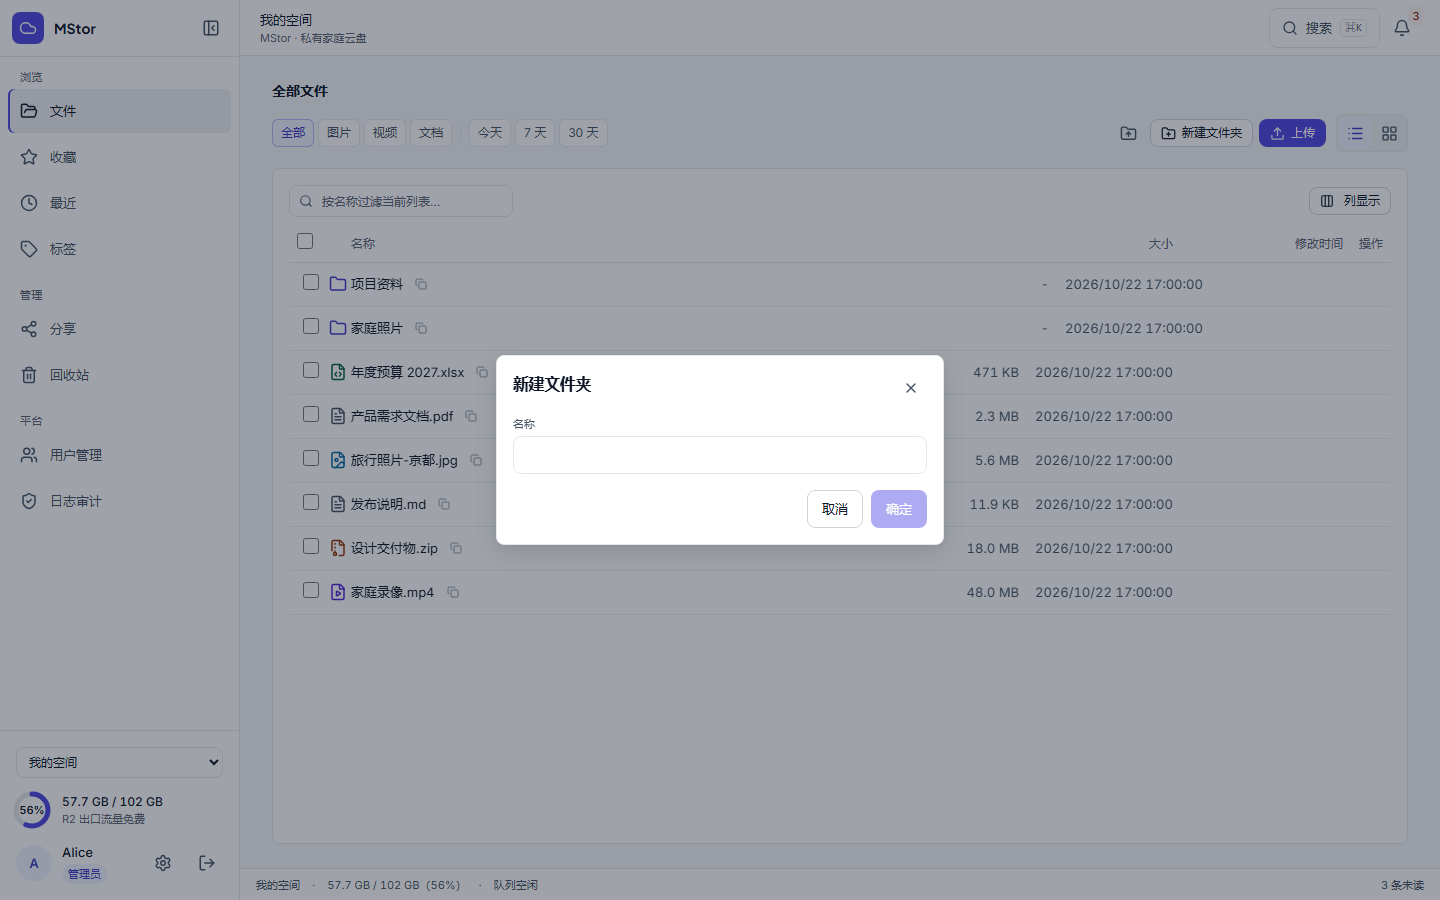
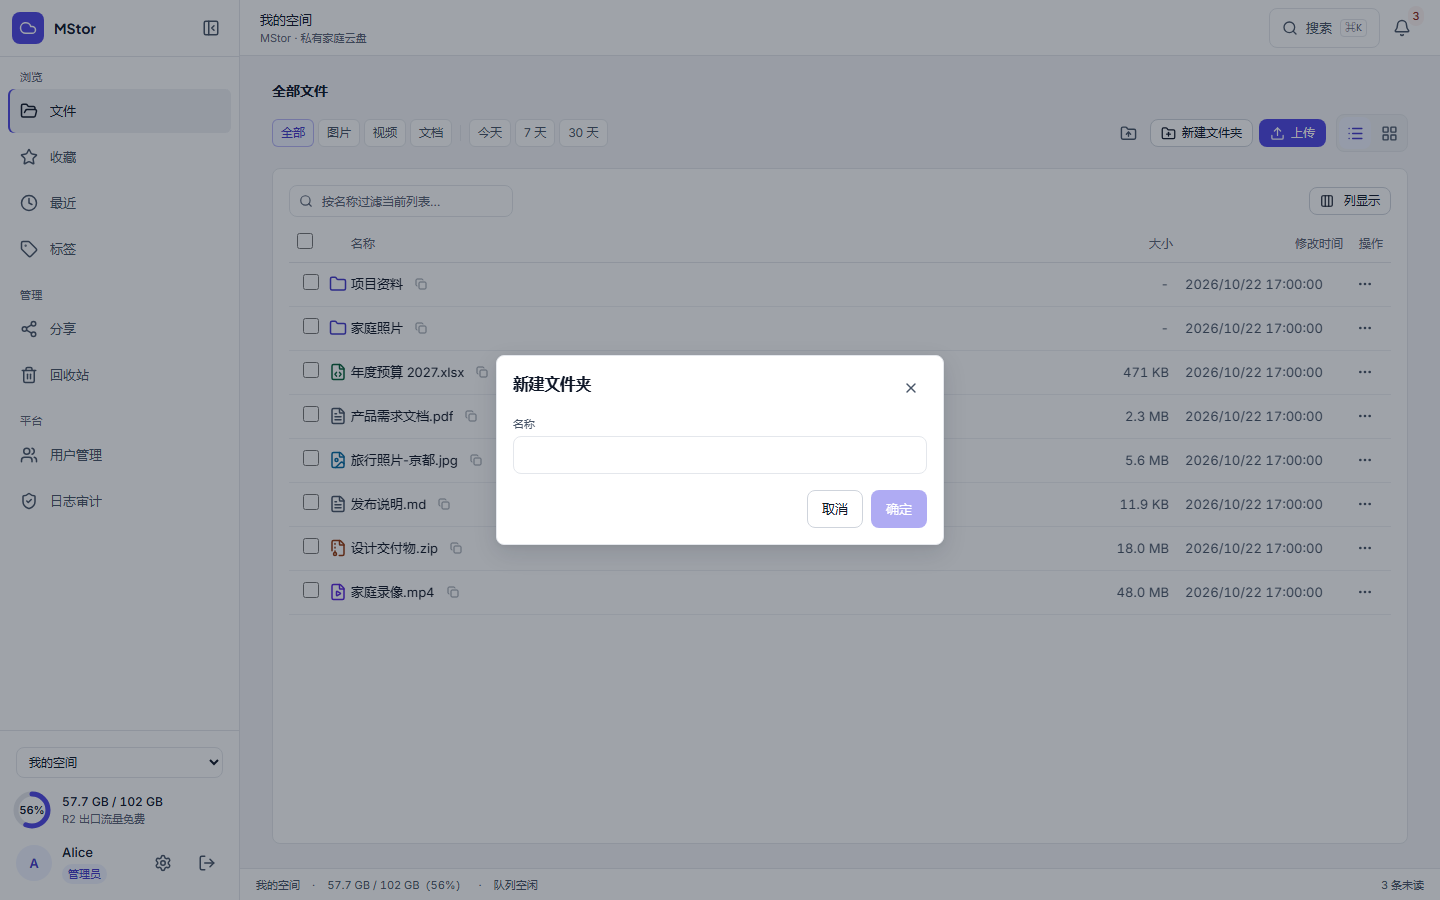
feat(ux): 操作入口常显 + 组件体验评估
- 列表每行常显「更多」菜单，移除 hover-only 6 图标；网格常显「下载+更多」
- 右键/更多菜单补收藏动作，统一 useNodeActions；更多按钮 coarse 44px
- 新增 docs/component-ux-audit.md：选择/列表/操作/工具栏/弹窗评分与优先级
- 明确框选为 P1 缺口；更新 DESIGN.md v8.4、README、UX report
- 客户端 265 例、server 29、visual 22/22；tsc/eslint/build 全绿

diff --git a/client/src/pages/Browser.test.tsx b/client/src/pages/Browser.test.tsx
@@ -144,7 +144,8 @@ test("rename via dialog calls renameNode", async () => {
   vi.mocked(renameNode).mockResolvedValue({ ok: true });
   const { user } = renderWith(<Browser />);
   await screen.findByText("hello.txt");
-  await user.click(screen.getByRole("button", { name: /重命名 hello.txt/ }));
+  await user.click(screen.getByRole("button", { name: /更多操作 hello.txt/ }));
+  await user.click(screen.getByRole("menuitem", { name: "重命名" }));
   const input = screen.getByLabelText("名称");
   await user.clear(input);
   await user.type(input, "world.txt");
@@ -157,7 +158,8 @@ test("delete asks confirm dialog then calls deleteNode", async () => {
   vi.mocked(deleteNode).mockResolvedValue({ ok: true });
   const { user } = renderWith(<Browser />);
   await screen.findByText("hello.txt");
-  await user.click(screen.getByRole("button", { name: /删除 hello.txt/ }));
+  await user.click(screen.getByRole("button", { name: /更多操作 hello.txt/ }));
+  await user.click(screen.getByRole("menuitem", { name: "删除" }));
   // 弹窗出现且未确认前不调用删除
   expect(await screen.findByText("确定删除「hello.txt」？可在回收站恢复。")).toBeInTheDocument();
   expect(deleteNode).not.toHaveBeenCalled();
@@ -166,7 +168,8 @@ test("delete asks confirm dialog then calls deleteNode", async () => {
   expect(screen.queryByText("确定删除「hello.txt」？可在回收站恢复。")).not.toBeInTheDocument();
   expect(deleteNode).not.toHaveBeenCalled();
   // 再次打开并在弹窗内确认
-  await user.click(screen.getByRole("button", { name: /删除 hello.txt/ }));
+  await user.click(screen.getByRole("button", { name: /更多操作 hello.txt/ }));
+  await user.click(screen.getByRole("menuitem", { name: "删除" }));
   await user.click(await screen.findByRole("button", { name: "删除" }));
   await waitFor(() => expect(deleteNode).toHaveBeenCalledWith("f1"));
 });
@@ -325,7 +328,8 @@ test("move via dialog calls moveNode with target dir", async () => {
   vi.mocked(moveNode).mockResolvedValue({ ok: true });
   const { user } = renderWith(<Browser />);
   await screen.findByText("hello.txt");
-  await user.click(screen.getByRole("button", { name: /移动 hello.txt/ }));
+  await user.click(screen.getByRole("button", { name: /更多操作 hello.txt/ }));
+  await user.click(screen.getByRole("menuitem", { name: "移动" }));
   await user.click(screen.getByRole("button", { name: "根目录" }));
   await user.click(screen.getByRole("button", { name: "确定" }));
   await waitFor(() => expect(moveNode).toHaveBeenCalledWith("f1", ""));

diff --git a/client/src/components/FileList.tsx b/client/src/components/FileList.tsx
@@ -296,28 +296,22 @@ export default function FileList({
       );
     return (
       <span
-        className="row-actions flex shrink-0 items-center justify-center gap-0.5 px-1"
+        className="flex shrink-0 items-center justify-end gap-0.5 px-1"
         onClick={(e) => e.stopPropagation()}
         onDoubleClick={(e) => e.stopPropagation()}
       >
         {onMoreMenu ? (
-          <>
-            {/* 桌面：完整操作组；移动：收进「更多」菜单，把宽度让给文件名 */}
-            <span className="hidden items-center gap-0.5 md:flex">
-              {download}
-              {actions?.(n)}
-            </span>
-            <RowAction
-              label={`更多操作 ${n.name}`}
-              className="md:hidden"
-              onClick={(e) => {
-                e.stopPropagation();
-                onMoreMenu(n, e.currentTarget.getBoundingClientRect());
-              }}
-            >
-              <MoreHorizontal size={14} aria-hidden />
-            </RowAction>
-          </>
+          // 所有视口都只保留一个「更多」入口，动作收进菜单；不再依赖 hover 才出现
+          <RowAction
+            label={`更多操作 ${n.name}`}
+            className="tap"
+            onClick={(e) => {
+              e.stopPropagation();
+              onMoreMenu(n, e.currentTarget.getBoundingClientRect());
+            }}
+          >
+            <MoreHorizontal size={16} aria-hidden />
+          </RowAction>
         ) : (
           <>
             {download}

diff --git a/client/src/hooks/useNodeActions.tsx b/client/src/hooks/useNodeActions.tsx
@@ -1,4 +1,4 @@
-import { Copy, Download, ExternalLink, FolderInput, Info, Pencil, Share2, Tag, Trash2 } from "lucide-react";
+import { Copy, Download, ExternalLink, FolderInput, Info, Pencil, Share2, Star, Tag, Trash2 } from "lucide-react";
 import type { Node } from "../api/types";
 import { contentUrl } from "../api/nodes";
 import type { ContextMenuItem } from "../components/ContextMenu";
@@ -17,6 +17,8 @@ interface Handlers {
   onDelete: (node: Node) => void;
   onDetail: (node: Node) => void;
   onTag: (node: Node) => void;
+  isFavorited?: (node: Node) => boolean;
+  onToggleFavorite?: (node: Node) => void;
 }
 
 /**
@@ -35,6 +37,18 @@ export function useNodeActions(h: Handlers) {
         else h.onPreview(n);
       },
     },
+    ...(h.onToggleFavorite
+      ? [
+          {
+            label: h.isFavorited?.(n) ? "取消收藏" : "收藏",
+            icon: <Star size={14} aria-hidden fill={h.isFavorited?.(n) ? "currentColor" : "none"} />,
+            onClick: () => {
+              h.closeMenu();
+              h.onToggleFavorite?.(n);
+            },
+          },
+        ]
+      : []),
     ...(n.is_dir
       ? []
       : [

diff --git a/client/src/index.css b/client/src/index.css
@@ -304,22 +304,8 @@ body {
 
 @media (pointer: coarse) {
   .tap { min-height: 44px; min-width: 44px; }
-  /* 触屏设备始终显示行内操作/网格操作（不依赖 hover 媒体查询的准确性） */
-  .row-actions, .grid-card-actions { opacity: 1 !important; }
 }
-
-/* 无 hover 能力（触屏/iPad）：网格卡片操作组常显 */
-@media (hover: none) {
-  .grid-card-actions { opacity: 1; }
-  .row-actions { opacity: 1 !important; }
-}
-/* 桌面宽度 + 鼠标设备：行内操作默认淡出，hover/focus 再出现，降低列表噪声。
-   窄屏（手机/分屏）始终显示，避免依赖 hover 媒体查询在触屏模拟下失效。 */
-@media (min-width: 768px) and (hover: hover) {
-  .row-actions { opacity: 0; transition: opacity var(--duration-fast) var(--ease-out-soft); }
-  .group:hover .row-actions,
-  .group:focus-within .row-actions { opacity: 1; }
-}
+/* v8.4：操作入口常显（列表单个「更多」、网格固定下载+更多），不再依赖 hover */
 
 /* ============================================================
    皮肤：只覆盖 L1 颜色，不改结构（html[data-skin]）

diff --git a/client/src/components/FileCard.tsx b/client/src/components/FileCard.tsx
@@ -85,7 +85,7 @@ export function FileCard({ node, thumbSrc, badge, actions }: Props) {
       {actions && (
         <div
           // md 是宽度断点而非 hover 能力：iPad/触屏笔记本同样 ≥md，必须用 (hover:none) 兜底常显
-          className="grid-card-actions absolute top-1.5 right-1.5 z-content flex items-center gap-0.5 rounded-lg border border-line bg-surface-1/95 px-1 py-0.5 shadow-soft transition-opacity md:opacity-0 md:group-hover:opacity-100 md:group-focus-within:opacity-100"
+          className="grid-card-actions absolute top-1.5 right-1.5 z-content flex items-center gap-0.5 rounded-lg border border-line bg-surface-1/95 px-1 py-0.5 shadow-soft"
           onClick={(e) => e.stopPropagation()}
           onDoubleClick={(e) => e.stopPropagation()}
           onTouchStart={(e) => e.stopPropagation()}

diff --git a/client/src/pages/Browser.tsx b/client/src/pages/Browser.tsx
@@ -182,6 +182,8 @@ export default function Browser() {
     onDelete: setDeleting,
     onDetail: setDetail,
     onTag: setTagging,
+    isFavorited: (n) => favIds.has(n.id),
+    onToggleFavorite: toggleFavorite,
   });
   // 行/卡片右键：打开于指针处（组件内越界翻转）
   const onNodeContextMenu = (e: ReactMouseEvent<HTMLElement>, node: Node) => {

diff --git a/docs/component-ux-audit.md b/docs/component-ux-audit.md
@@ -1,0 +1,94 @@
+# 组件用户体验评估（MStor v8.4）
+
+> 范围：文件选择、列表面板、操作入口、工具栏、侧栏/顶栏、命令面板、弹窗、批量条、空态/加载态。
+> 方法：源码量测 + 1440/390 截图 + 现有交互测试。评分 5 分制；本轮已实施「操作入口常显」，并列出下一步。
+
+## 1. 文件选择
+
+| 能力 | 现状 | 评分 | 说明 |
+|---|---|---|---|
+| 逐个勾选 | ✅ | 4/5 | 行首 checkbox，表头全选支持 indeterminate |
+| Shift 范围选择 | ✅ | 4/5 | 桌面 Shift 点选；触屏不可用 |
+| Ctrl/Cmd+A 全选 | ✅ | 4/5 | 列表容器聚焦时生效 |
+| 长按多选 | ✅ | 3/5 | 触屏长按 500ms；无明确提示 |
+| 批量操作 | ✅ | 4/5 | 底部批量条：下载/移动/标签/删除/取消 |
+| Esc 清空 | ✅ | 5/5 | 列表、网格、checkbox 焦点均生效 |
+| **框选 drag-box** | ❌ | 0/5 | 当前没有框选；空白区域拖动不会选择 |
+| 选择态视觉 | ✅ | 4/5 | 列表 ink tint + 3px rail；网格 ink 边框 + ring；黑白高对比 |
+| 选中后操作 | ✅ | 4/5 | 已选行/卡可从「更多」再操作；批量条常显 |
+
+结论：批量勾选、范围、全选、批量条已完整；**框选是唯一明显缺口**。建议下一步实现鼠标框选（只从空白区域开始，不干扰行拖拽），并在移动端补一个「选择」模式提示。
+
+## 2. 列表布局
+
+量测：
+
+- 主内容左右内边距：移动 16 / 桌面 32；
+- 列表卡片内边距 12，行高 44（紧凑 38）；
+- 行内左右 8；表头 8；
+- 列宽：选择 28 / 图标 26 / 名称弹性 / 大小 92 / 时间 170 / 操作 auto；
+- 分隔线 1px，无斑马纹；
+- 网格间距 12，卡片 4:3 缩略图。
+
+评估：
+
+| 项 | 评分 | 说明 |
+|---|---|---|
+| 信息密度 | 4/5 | 44px 行高适合文件管理；1440 下名称列充足 |
+| 横向节奏 | 4/5 | 大小/时间右对齐，名称左对齐；列间只有 cell padding，没有多余 gap |
+| 纵向节奏 | 4/5 | 行间仅 1px 线；卡片与工具栏间距 12/16；移动端不拥挤 |
+| 对齐 | 4/5 | 表头与行共用 grid 模板；移动端隐藏表头、名称吃满 |
+| 空态 | 4/5 | EmptyState 统一，但列表卡片在空列表时高度较小，可再统一下容器高度 |
+
+问题：
+
+- 操作列现在只有一个「更多」，120px 的列宽略宽；可降到 72，把空间还给名称。
+- 表头在滚动时不是 sticky（列表内部滚动时表头固定在卡片顶部，当前外层结构已基本满足；若改为整页滚动需要 sticky）。
+- 移动端没有列显隐/排序入口，只能依赖默认排序；可作为后续增强。
+
+## 3. 操作入口（本轮已改）
+
+之前：
+
+- 每行 6 个图标仅在 hover/focus 时出现；
+- 触屏收进「更多」，桌面用户很难发现重命名/移动；
+- 删除等危险动作与常用动作混在一起。
+
+现在：
+
+- 列表每行**常显一个「更多」**（28px，coarse 指针 44px），所有动作进入菜单；
+- 网格卡片常显「下载 + 更多」；
+- 菜单包含：收藏/取消收藏、打开、下载、分享、重命名、移动、复制到、复制链接、标签、删除、详情；
+- 右键菜单与「更多」共用同一份 useNodeActions，行为不分叉；
+- 表格/卡片的选中态、hover、焦点仍然独立。
+
+评分：**4.5/5**。发现性明显提升，噪声低于「6 个图标常显」，也比 hover-only 更可靠。
+Trade-off：重命名/移动多一次点击；对于高频重命名用户，可后续加一个「双击重命名」或快捷键 F2（已支持键盘 F2）。
+
+## 4. 其他组件
+
+| 组件 | 评分 | 评估 |
+|---|---|---|
+| AppHeader | 4/5 | 空间上下文、搜索、通知、移动菜单在同一水平线；搜索框不抢主操作 |
+| Sidebar | 4/5 | neutral active + 2px accent rail；分组清晰；底部空间/账户密度合理 |
+| 文件工具栏 | 4.5/5 | 上传是唯一主按钮；筛选 chips 左、动作右；移动端隐藏次要的文件夹上传 |
+| 命令面板 | 4.5/5 | 单纵向面板、分段筛选、结果滚动、键盘提示；打开即最近 |
+| 弹窗/Dialog | 4/5 | 统一 max-w-md、移动端底部抽屉、关闭按钮与焦点陷阱；表单间距一致 |
+| 批量条 | 4/5 | 底部居中、计数 + 动作 + 取消；不遮挡状态栏 |
+| 空态/加载/错误 | 4/5 | AsyncState 覆盖列表页；成员/邀请补错误态；分享子目录 loading 已修 |
+| 触控 | 3.5/5 | 行高 44、checkbox 16；更多按钮 coarse 下 44；长按缺少视觉提示 |
+
+## 5. 下一步优先级
+
+1. **框选选择**（P1）：空白区域拖拽矩形选择；Shift 追加；Esc 取消；与行拖拽移动隔离。
+2. **操作列宽 120→72**（P2）：把空间还给名称列。
+3. **选择模式提示**（P2）：移动端长按进入多选时显示一次轻提示。
+4. **列表表头 sticky**（P2）：长列表滚动时保持列头可见。
+5. **移动端排序/列显隐**（P3）：当前只有桌面列菜单。
+6. **操作菜单键盘可达性**（P3）：菜单已支持 ↑↓/Esc；补「Shift+F10」打开菜单的入口。
+
+## 6. 验证
+
+- 客户端 265 例、server 29 项、visual 22/22 全绿；
+- 操作入口变化已更新 files/grid/preview 等视觉基线；
+- 操作测试从直接点击行内按钮改为「更多 → 菜单项」，与真实用户路径一致。

diff --git a/docs/ux-refactor-report.md b/docs/ux-refactor-report.md
@@ -554,7 +554,14 @@
 - hover 不再覆盖选中色；表头全选增加 indeterminate；Esc 在列表/网格/行首 checkbox 焦点下均可清空选择。
 - 新增 list-selected / grid-selected 基线；补充 FileList/useKeyboardNav 用例。
 
-### 19.18 视频缩略图与预览
+### 19.18 组件 UX 评估与操作入口常显
+
+- 逐组件评估文件选择、列表布局、操作入口、工具栏、侧栏/顶栏、命令面板、弹窗、批量条、空态/加载态。
+- 操作入口：列表由 hover 显示 6 个图标改为常显「更多」菜单；网格常显「下载 + 更多」；菜单补收藏动作，统一 useNodeActions。
+- 选择能力：批量勾选、Shift 范围、Ctrl/Cmd+A、长按、Esc 均已有；框选仍缺失，列为下一步 P1。
+- 评分与优先级见 docs/component-ux-audit.md；客户端 265 例、server 29、visual 22/22。
+
+### 19.19 视频缩略图与预览
 
 - 根因：makeThumbnail 只处理图片；uploadSmall 才补缩略图，分片/秒传路径完全跳过；网格对无 thumb 的视频只显示类型图标；video 预览没有 poster/加载/错误态。
 - 修复：客户端视频抽帧（中间帧，300MB/8s 上限）；队列侧统一补缩略图覆盖三条上传路径；网格用首帧+播放角标；预览补 poster、preload=metadata、playsInline、加载与编码不支持提示。

diff --git a/docs/design-system.md b/docs/design-system.md
@@ -20,6 +20,13 @@ v8 借鉴并落地：
 - 视觉基线保持 22 张；visual:check 屏蔽 service worker，避免 PWA toast 污染截图。
 - 新增 design-guard 测试扫描 UI 源码，禁止 hover 位移/缩放、active 缩放、玻璃模糊、spring、渐变背景回潮。
 
+### v8.4 操作入口常显
+
+- 列表每行常显单个「更多」入口，移除 hover 才出现的 6 个行内图标；动作菜单含收藏、打开、下载、分享、重命名、移动、复制、复制链接、标签、删除、详情。
+- 网格卡片常显「下载 + 更多」；不再依赖 hover 才可见。
+- 右键菜单与「更多」共用 useNodeActions，行为不分叉；更多按钮 coarse 指针 44px。
+- 工具条/命令面板/侧栏评分与改进项见 docs/component-ux-audit.md。
+
 ### v8.3 视频缩略图与预览
 
 - 上传后统一在队列侧补缩略图：小文件、大文件分片、秒传三条路径都覆盖；图片与视频由客户端 Canvas 生成 WebP。

diff --git a/DESIGN.md b/DESIGN.md
@@ -66,6 +66,7 @@ Button：高度 32 / 36，圆角 8，1px 边；hover 只改背景色，不位移
 Card：1px 发丝边 + 圆角 8；内容卡片无投影；只有浮层使用 lift。
 Input：高度 36，1px 边，焦点时 border 变 accent，不加外发光。
 Selection：黑白高对比，不使用 accent tint。列表选中行 ink 5% tint + 3px ink rail；网格选中卡 ink 边框 + ring；checkbox 使用 accent-ink；表头部分选中显示 indeterminate；Esc 清空选择，不依赖焦点在行上。
+Actions：列表每行常显一个「更多」入口，所有动作进菜单；网格常显「下载 + 更多」。禁止把核心动作只藏在 hover 里。
 Table：表头 11px 大写弱化色；行高 44；行 hover 只改背景。
 Dialog：桌面居中圆角 12，移动端底部抽屉；遮罩不使用重模糊。
 Command palette：单纵向面板；输入 → 分段筛选 → 结果滚动 → 键盘提示；禁止输入框下再套绝对定位下拉。

diff --git a/docs/README.md b/docs/README.md
@@ -13,6 +13,7 @@
 | [reports/2026-09-28-ux-optimization-report.md](./reports/2026-09-28-ux-optimization-report.md) | 上一轮 UX 优化记录 | 参考 |
 | [functional-audit.md](./functional-audit.md) | 2026-10-22 功能与操作体验验证：逐功能矩阵、已修缺陷、真机回归清单 | 记录 |
 | [video-pipeline-analysis.md](./video-pipeline-analysis.md) | 视频缩略图/预览：当前方案、Cloudflare Stream/Mux/MediaConvert/GCP 对比、分步演进建议 | 记录 |
+| [component-ux-audit.md](./component-ux-audit.md) | 组件用户体验评估：选择/列表/操作入口/工具栏/弹窗评分与优先级 | 记录 |
 | [../DESIGN.md](../DESIGN.md) | OpenDesign 9 段 schema 的 MStor 设计意图（色/字/间距/组件/动效/语气/品牌/反模式） | 权威 |
 
 ## 阅读顺序（新人/接手）
